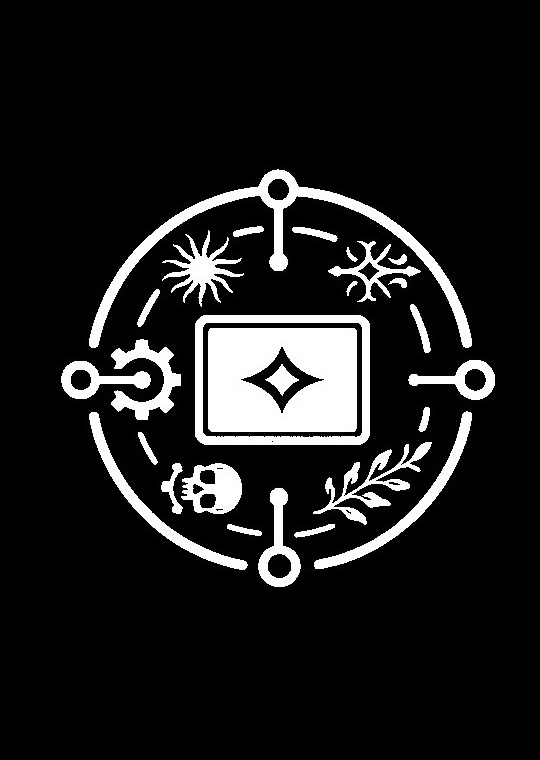
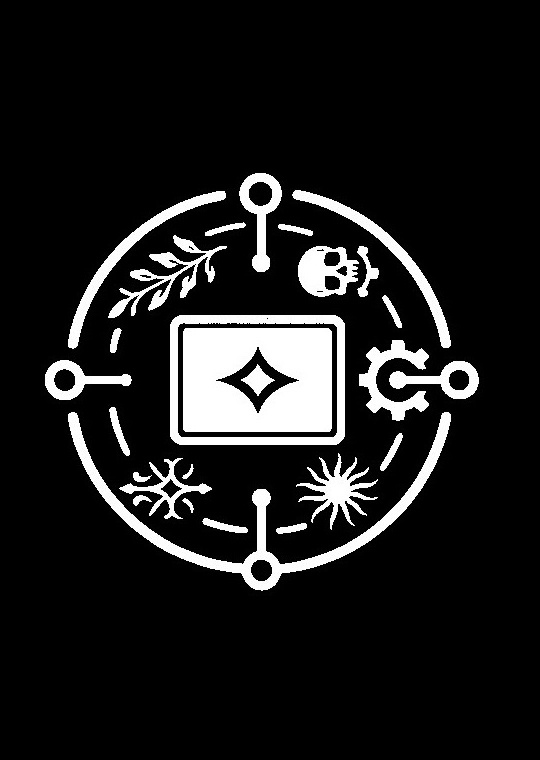
SAM1-50: rotate card_back.jpg 180° to fix sleeve orientation

Changed region(s): [[0.0593, 0.2118, 0.9185, 0.7868]]

diff --git a/scripts/regen_card_back.py b/scripts/regen_card_back.py
@@ -1,0 +1,25 @@
+"""
+Lineage of assets/images/card_back.jpg
+--------------------------------------
+Originally regenerated in dd1e8c3 from a (now-lost) 960x540 source via
+ImageMagick/PIL: rotate 90° CW, then center-crop to 540x760. The original
+command was not committed.
+
+Hardware testing showed that rotation was the wrong direction (sleeves
+rendered the image 90° CW off). The fix (current commit) rotated the
+already-cropped 540x760 asset 180° in place — mathematically equivalent
+to regenerating from the source with 90° CCW + the same center-crop,
+because CCW 90° = CW 90° + 180° and the top/bottom crop is symmetric.
+
+If the source is ever recovered and a full regen is needed:
+
+    from PIL import Image
+    src = Image.open('card_back_source_960x540.jpg')
+    rotated = src.rotate(-90, expand=True)  # -90 = CCW 90°
+    w, h = rotated.size                     # 540x960
+    crop_h = 760
+    top = (h - crop_h) // 2
+    rotated.crop((0, top, w, top + crop_h)).save(
+        'assets/images/card_back.jpg', 'JPEG', quality=95,
+    )
+"""
